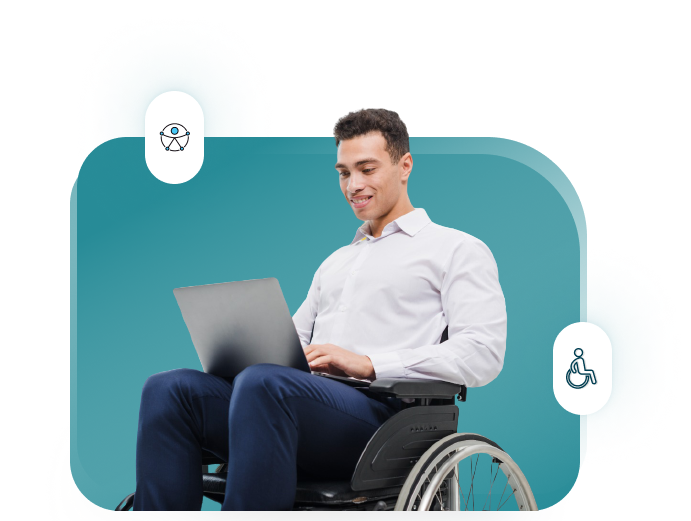
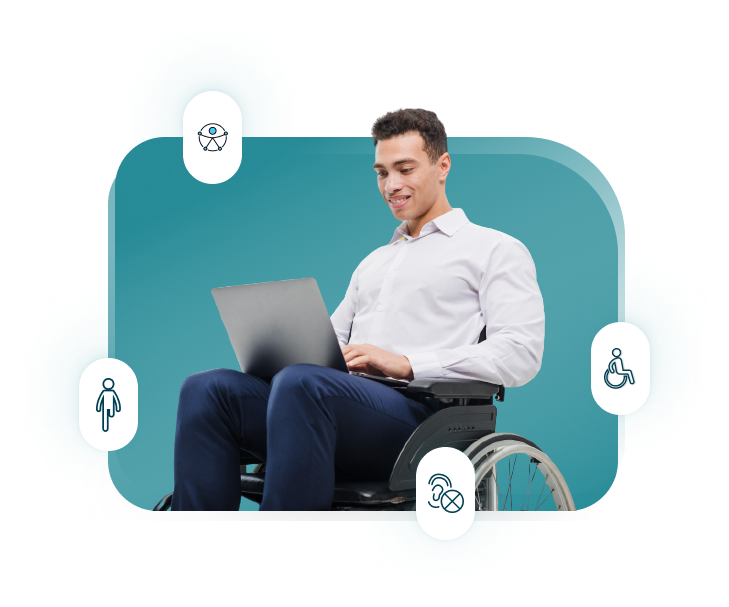
Animação do header

diff --git a/index.html b/index.html
@@ -45,9 +45,9 @@
                 </div>
                 <ul class="menu-desktop">
                     <li class="menu-item">
-                        <a href="#comentarios" class="nav-link-desktop ani1" alt="Sobre o programa">Sobre o programa</a>
-                        <a href="#depoimentos" class="nav-link-desktop ani2" alt="Cronograma">Cronograma</a>
-                        <a href="#jeitohepta" class="nav-link-desktop ani3" alt="Inscrições">Inscrições</a>
+                        <a href="#sobre-programa" class="nav-link-desktop ani1" alt="Sobre o programa">Sobre o programa</a>
+                        <a href="#cronograma" class="nav-link-desktop ani2" alt="Cronograma">Cronograma</a>
+                        <a href="#cronograma" class="nav-link-desktop ani3" alt="Inscrições">Inscrições</a>
                     </li>
                 </ul>
             </div>
@@ -74,11 +74,11 @@
         <section class="container hero">
             <div class="flex-item-1 py-4 px-1 ani6">
 
-                <h1>1ª edição - Outubro 2021  <br>Técnico de Suporte N1</h1>
-                <p>Que tal participar de um programa de capacitação e ter a <br>oportunidade de trabalhar em uma empresa que valoriza...</p>
+                <h1 data-aos="fade-up" data-aos-delay="100">1ª edição - Outubro 2021  <br>Técnico de Suporte N1</h1>
+                <p data-aos="fade-up" data-aos-delay="200">Que tal participar de um programa de capacitação e ter a <br>oportunidade de trabalhar em uma empresa que valoriza...</p>
                     <br>
                 <!-- <h2>Uma empresa que valoriza</h2> -->
-                <div class="contenedor">
+                <div class="contenedor" data-aos="fade-up" data-aos-delay="250">
                     <ul>
                         <li>O #capitalHumano</li>
                         <li>A #colobaração</li>
@@ -87,17 +87,26 @@
                 </div>
 
             </div>
-            <div class="flex-item-2 ani7">
+            <div class="flex-item-2 ani7" data-aos="fade-left" data-aos-delay="300">
                 <div class="js-tilt ani7">
                     <img src="assets/img/mulher-cadeirante.png" alt="Hepta 29 anos">
                 </div>
             </div>
+            <img  data-aos="fade-left" data-aos-delay="700" class="item-1" src="assets/img/1.png" alt="deficiente auditivo">
+            <img data-aos="fade-right" data-aos-delay="700" class="item-2" src="assets/img/2.png" alt="deficiente auditivo">
+            <img data-aos="fade-up" data-aos-delay="700" class="item-3" src="assets/img/3.png" alt="deficiente auditivo">
+            <img data-aos="fade-up" data-aos-delay="700" class="item-4" src="assets/img/4.png" alt="deficiente auditivo">
+            <img data-aos="fade-up" data-aos-delay="700" class="item-5" src="assets/img/5.png" alt="deficiente auditivo">
+            <img data-aos="fade-up" data-aos-delay="700"class="item-6" src="assets/img/6.png" alt="deficiente auditivo">
+            <img data-aos="fade-up" data-aos-delay="700"class="item-7" src="assets/img/7.png" alt="deficiente auditivo">
+            <img data-aos="fade-up" data-aos-delay="700"class="item-selos" src="assets/img/selos.png" alt="deficiente auditivo">
+            <img data-aos="fade-up" data-aos-delay="700"class="item-carinha" src="assets/img/carinh_hepta.png" alt="deficiente auditivo">
         </section>
     </section>
 
 
 
-    <!-- DEPOIMENTO REDES SOCIAIS -->
+    <!-- DEPOIMENTO REDES SOCIAIS -->      
 
     <section id="sobre-programa" class="container">
         <div class="flex-item">
@@ -140,7 +149,7 @@
 
 
     <section id="programa-complemento" class="container">
-        <div class="o-que flex-item-2">
+        <div class="o-que flex-item-2" data-aos="fade-up" data-aos-delay="100">
             <h2>o que é?</h2>
             <p>Em sua primeira edição, o programa foca na capacitação de pessoas com deficiência
                 para exercer as atividades de Técnico de Suporte N1: profissional responsável
@@ -160,7 +169,7 @@
 
 
     <section id="como-sera" class="container">
-        <div class="flex-item-1">
+        <div class="flex-item-1" data-aos="fade-down" data-aos-delay="300">
             <h2>Como será?</h2>
             <br>
             <br>
@@ -170,7 +179,7 @@
                 <p>Os participantes serão submetidos a um teste no final da capacitação e todos aqueles que passarem com aproveitamento a partir de 70% farão
                      parte do nosso banco de talentos, com chances de contratação quando houver vagas.</p>
         </div>
-        <div class="flex-item-1">
+        <div class="flex-item-1" data-aos="fade-up" data-aos-delay="200">
             <img src="assets/img/cadeirante.png " alt="Imagem de deficiente">
         </div>
     </section>
@@ -178,11 +187,11 @@
 
     <section id="jeitohepta" class="container">
         <div class="flex-item-1">
-            <img class="mulher" data-aos="fade-up" data-aos-delay="200" src="assets/img/mulher.png"
-                alt="mulher jeito hepta">
+            <img class="mulher" data-aos="fade-up" data-aos-delay="200" src="assets/img/banner_cego.png"
+                alt="Deficoemte visual">
         </div>
         <div class="flex-item-3 mt-2" data-aos="fade-down" data-aos-delay="300">
-            <span>#jeitohepta</span>
+            <!-- <span>#jeitohepta</span> -->
             <h2>Quem pode participar?</h2>
             <p>Devido a necessidade de participação no encontro presencial, as 20
                 vagas oferecidas são exclusivas para moradores do Distrito Federal.
@@ -245,8 +254,9 @@
 
 
         <p>
-            <a href="https://mailchi.mp/4fb91a85a517/contato-hepta"> <button class="bnt-red">Vamos
-                    conversar?</button></a>
+            <A HREF="mailto:academia@hepta.com.br?Subject=Programa%20de%20capacita%E7%E3o%20de%20PCDs%20"><button class="bnt-red">Quero 
+                participar!
+            </button></a>
         </p>
 
     </section>

diff --git a/assets/css/style.css b/assets/css/style.css
@@ -259,8 +259,53 @@ body {
   overflow: hidden;
 }
 
+@-webkit-keyframes go-back {
+  from {
+    -webkit-transform: translateX(10px);
+            transform: translateX(10px);
+  }
+  to {
+    -webkit-transform: translateX(0);
+            transform: translateX(0);
+  }
+}
+
+@keyframes go-back {
+  from {
+    -webkit-transform: translateX(10px);
+            transform: translateX(10px);
+  }
+  to {
+    -webkit-transform: translateX(0);
+            transform: translateX(0);
+  }
+}
+
+@-webkit-keyframes go-left {
+  from {
+    -webkit-transform: translateY(10px);
+            transform: translateY(10px);
+  }
+  to {
+    -webkit-transform: translateY(0);
+            transform: translateY(0);
+  }
+}
+
+@keyframes go-left {
+  from {
+    -webkit-transform: translateY(10px);
+            transform: translateY(10px);
+  }
+  to {
+    -webkit-transform: translateY(0);
+            transform: translateY(0);
+  }
+}
+
 .hero {
   height: 100vh;
+  position: relative;
 }
 
 .hero button {
@@ -294,6 +339,92 @@ body {
   line-height: 72px !important;
   font-weight: bold;
   margin-bottom: 32px;
+}
+
+.hero .item-1 {
+  position: absolute;
+  left: 790px;
+  top: 280px;
+  margin: 0;
+  padding: 0;
+  -webkit-animation: go-back 2s infinite alternate;
+          animation: go-back 2s infinite alternate;
+}
+
+.hero .item-2 {
+  position: absolute;
+  left: 805px;
+  top: 140px;
+  margin: 0;
+  padding: 0;
+  -webkit-animation: go-left 2s infinite alternate;
+          animation: go-left 2s infinite alternate;
+}
+
+.hero .item-3 {
+  position: absolute;
+  left: 1000px;
+  top: 60px;
+  margin: 0;
+  padding: 0;
+  -webkit-animation: go-back 2s infinite alternate;
+          animation: go-back 2s infinite alternate;
+}
+
+.hero .item-4 {
+  position: absolute;
+  left: 1150px;
+  top: 150px;
+  margin: 0;
+  padding: 0;
+  -webkit-animation: go-left 2s infinite alternate;
+          animation: go-left 2s infinite alternate;
+}
+
+.hero .item-5 {
+  position: absolute;
+  left: 1150px;
+  top: 320px;
+  margin: 0;
+  padding: 0;
+  -webkit-animation: go-back 2s infinite alternate;
+          animation: go-back 2s infinite alternate;
+}
+
+.hero .item-6 {
+  position: absolute;
+  left: 1120px;
+  top: 500px;
+  margin: 0;
+  padding: 0;
+  -webkit-animation: go-left 2s infinite alternate;
+          animation: go-left 2s infinite alternate;
+}
+
+.hero .item-7 {
+  position: absolute;
+  left: 790px;
+  top: 440px;
+  margin: 0;
+  padding: 0;
+  -webkit-animation: go-back 2s infinite alternate;
+          animation: go-back 2s infinite alternate;
+}
+
+.hero .item-selos {
+  position: absolute;
+  left: 20px;
+  top: 690px;
+  margin: 0;
+  padding: 0;
+}
+
+.hero .item-carinha {
+  position: absolute;
+  left: 990px;
+  top: 872px;
+  margin: 0;
+  padding: 0;
 }
 
 @media screen and (max-width: 1140px) and (min-width: 960px) {

diff --git a/assets/css/partials/_layout.scss b/assets/css/partials/_layout.scss
@@ -146,8 +146,27 @@ $container-s: 540px;
     overflow: hidden;
 }
 
+@keyframes go-back {
+    from {
+      transform: translateX(10px);
+    }
+    to {
+      transform: translateX(0);
+    }
+  }
+
+  @keyframes go-left{
+    from {
+      transform: translateY(10px);
+    }
+    to {
+      transform: translateY(0);
+    }
+  }
+
 .hero {
     height: 100vh;
+    position: relative;
     button {
         margin: 0;
         border-radius: 5px;
@@ -174,6 +193,82 @@ $container-s: 540px;
         line-height: 72px!important;
         font-weight: bold;
         margin-bottom: 32px;
+    }
+    //item animados
+    .item-1{
+        position: absolute;
+        left: 790px;
+        top: 280px;
+        margin: 0;
+        padding: 0;
+        animation: go-back 2s infinite alternate;
+    }
+    .item-2{
+        position: absolute;
+        left: 805px;
+        top: 140px;
+        margin: 0;
+        padding: 0;
+        animation: go-left 2s infinite alternate;
+    }
+    .item-3{
+        position: absolute;
+        left: 1000px;
+        top:60px;
+        margin: 0;
+        padding: 0;
+        animation: go-back 2s infinite alternate;
+    }
+    .item-4{
+        position: absolute;
+        left: 1150px;
+        top: 150px;
+        margin: 0;
+        padding: 0;
+        animation: go-left 2s infinite alternate;
+    }
+    .item-5{
+        position: absolute;
+        left: 1150px;
+        top: 320px;
+        margin: 0;
+        padding: 0;
+        animation: go-back 2s infinite alternate;
+    }
+    .item-6{
+        
+        position: absolute;
+        left: 1120px;
+        top: 500px;
+        margin: 0;
+        padding: 0;
+        animation: go-left 2s infinite alternate;
+        
+    }
+    .item-7{
+       
+        position: absolute;
+        left: 790px;
+        top: 440px;
+        margin: 0;
+        padding: 0;
+        animation: go-back 2s infinite alternate;
+    }
+    .item-selos{
+        position: absolute;
+        left: 20px;
+        top: 690px;
+        margin: 0;
+        padding: 0;
+        
+    }
+    .item-carinha{
+        position: absolute;
+        left: 990px;
+        top: 872px;
+        margin: 0;
+        padding: 0;
+        
     }
     @include responsive(m) {
         height: auto;
